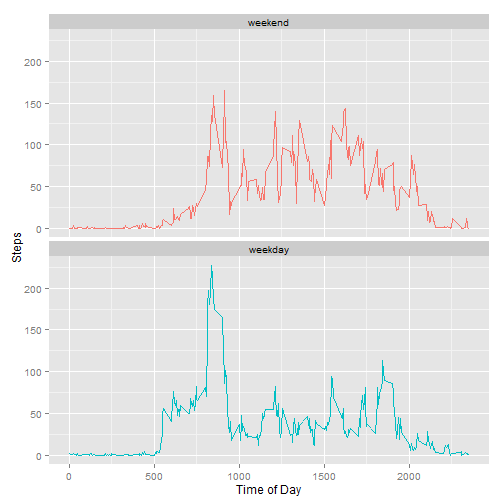
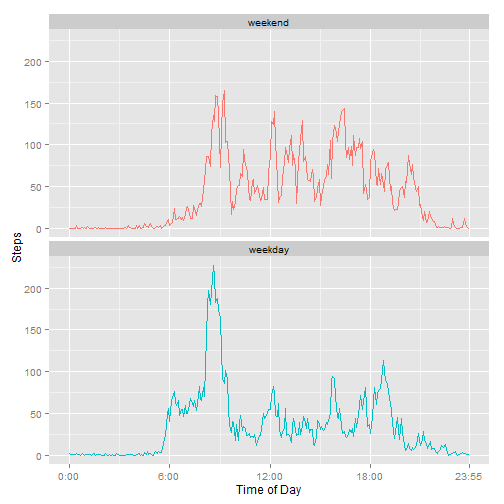
Correct x values to be continuous

diff --git a/PA1_template.html b/PA1_template.html
@@ -236,21 +236,23 @@ activity &lt;- read.csv(&quot;activity.csv&quot;)
 ## 6    NA 2012-10-01       25
 </code></pre>
 
-<p>We create another column for our convenience which combines the date and interval into
-a time value, dttm, and take another look at our data:</p>
+<p>We create a column which combines the date and interval into
+a time value, dttm, and another that converts the interval into a cardinal number, 
+interval_val, and take another look at our data:</p>
 
 <pre><code class="r">activity$interval_str &lt;- sprintf(&quot;%02d:%02d&quot;, floor(activity$interval/100), activity$interval %% 100)
 activity &lt;- mutate(activity, dttm = as.POSIXct(paste(date, interval_str), format=&quot;%Y-%m-%d %H:%M&quot;))
+activity &lt;- mutate(activity, interval_val = 60 * floor(interval/100) + interval %% 100)
 head(activity)
 </code></pre>
 
-<pre><code>##   steps       date interval interval_str                dttm
-## 1    NA 2012-10-01        0        00:00 2012-10-01 00:00:00
-## 2    NA 2012-10-01        5        00:05 2012-10-01 00:05:00
-## 3    NA 2012-10-01       10        00:10 2012-10-01 00:10:00
-## 4    NA 2012-10-01       15        00:15 2012-10-01 00:15:00
-## 5    NA 2012-10-01       20        00:20 2012-10-01 00:20:00
-## 6    NA 2012-10-01       25        00:25 2012-10-01 00:25:00
+<pre><code>##   steps       date interval interval_str                dttm interval_val
+## 1    NA 2012-10-01        0        00:00 2012-10-01 00:00:00            0
+## 2    NA 2012-10-01        5        00:05 2012-10-01 00:05:00            5
+## 3    NA 2012-10-01       10        00:10 2012-10-01 00:10:00           10
+## 4    NA 2012-10-01       15        00:15 2012-10-01 00:15:00           15
+## 5    NA 2012-10-01       20        00:20 2012-10-01 00:20:00           20
+## 6    NA 2012-10-01       25        00:25 2012-10-01 00:25:00           25
 </code></pre>
 
 <h2>What is mean total number of steps each day?</h2>
@@ -317,22 +319,25 @@ into 0.</p>
 
 <pre><code class="r">activity2 &lt;- activity
 activity2$steps[is.na(activity2$steps)] &lt;- 0
-activ_sum_interval &lt;- activity2 %&gt;% group_by(interval) %&gt;% summarize(mean(steps))
+activ_sum_interval &lt;- activity2 %&gt;% group_by(interval_val) %&gt;% summarize(mean(steps))
 names(activ_sum_interval)[2] &lt;- &quot;steps&quot;
-qplot(activ_sum_interval$interval, activ_sum_interval$steps, geom = &#39;line&#39;, col = I(&quot;blue&quot;), main = &quot;Avg Number of Steps (by 5-minute interval)&quot;, xlab = &quot;Time of Day&quot;, ylab = &quot;Avg Number of Steps&quot;)
+
+t &lt;- ggplot(activ_sum_interval, aes(interval_val, steps)) + geom_line(color = &quot;blue&quot;) + xlab(&quot;Time of Day&quot;) + ylab(&quot;Steps&quot;) + scale_x_continuous(breaks = c(0, 360, 720, 1080, 1435), labels = c(&quot;0:00&quot;, &quot;6:00&quot;, &quot;12:00&quot;, &quot;18:00&quot;, &quot;23:55&quot;))
+t
 </code></pre>
 
[2 lines of base64/hex data omitted]
 
 <ol>
 <li>Which 5-minute interval, on average across all the days in the dataset, contains
 the maximum number of steps?</li>
 </ol>
 
-<pre><code class="r">activ_sum_interval$interval[which.max(activ_sum_interval$steps)]
+<pre><code class="r">max_t &lt;- activ_sum_interval$interval_val[which.max(activ_sum_interval$steps)]
+sprintf(&quot;%02d:%02d&quot;, floor(max_t/60), max_t - 60 * floor(max_t/60))
 </code></pre>
 
-<pre><code>## [1] 835
+<pre><code>## [1] &quot;08:35&quot;
 </code></pre>
 
 <h2>Imputing missing values</h2>
@@ -405,14 +410,15 @@ activity2$dayType &lt;- factor((weekdays(activity2$dttm) %in% weekend), levels =
 <p>2) Make a panel plot containing a time series plot of the 5-minute interval and the
 average number of steps taken, averaged across all weekday days or weekend days.</p>
 
-<pre><code class="r">activ_sum_interval &lt;- activity2 %&gt;% group_by(interval, dayType) %&gt;% summarize(mean(steps))
+<pre><code class="r">activity2 &lt;- mutate(activity2, interval_val = 60 * floor(interval/100) + interval %% 100)
+activ_sum_interval &lt;- activity2 %&gt;% group_by(interval_val, dayType) %&gt;% summarize(mean(steps))
 names(activ_sum_interval)[3] &lt;- &quot;steps&quot;
 
-t &lt;- ggplot(activ_sum_interval, aes(interval, steps, color = factor(dayType))) + geom_line() + facet_wrap(~dayType, nrow = 2) + xlab(&quot;Time of Day&quot;) + ylab(&quot;Steps&quot;) + theme(legend.position = &quot;none&quot;)
+t &lt;- ggplot(activ_sum_interval, aes(interval_val, steps, color = factor(dayType))) + geom_line() + facet_wrap(~dayType, nrow = 2) + xlab(&quot;Time of Day&quot;) + ylab(&quot;Steps&quot;) + theme(legend.position = &quot;none&quot;) + scale_x_continuous(breaks = c(0, 360, 720, 1080, 1435), labels = c(&quot;0:00&quot;, &quot;6:00&quot;, &quot;12:00&quot;, &quot;18:00&quot;, &quot;23:55&quot;))
 t
 </code></pre>
 
[2 lines of base64/hex data omitted]
 
 </body>
 

diff --git a/PA1_template.md b/PA1_template.md
@@ -35,23 +35,25 @@ head(activity)
 ## 5    NA 2012-10-01       20
 ## 6    NA 2012-10-01       25
 ```
-We create another column for our convenience which combines the date and interval into
-a time value, dttm, and take another look at our data:
+We create a column which combines the date and interval into
+a time value, dttm, and another that converts the interval into a cardinal number, 
+interval_val, and take another look at our data:
 
 ```r
 activity$interval_str <- sprintf("%02d:%02d", floor(activity$interval/100), activity$interval %% 100)
 activity <- mutate(activity, dttm = as.POSIXct(paste(date, interval_str), format="%Y-%m-%d %H:%M"))
+activity <- mutate(activity, interval_val = 60 * floor(interval/100) + interval %% 100)
 head(activity)
 ```
 
 ```
-##   steps       date interval interval_str                dttm
-## 1    NA 2012-10-01        0        00:00 2012-10-01 00:00:00
-## 2    NA 2012-10-01        5        00:05 2012-10-01 00:05:00
-## 3    NA 2012-10-01       10        00:10 2012-10-01 00:10:00
-## 4    NA 2012-10-01       15        00:15 2012-10-01 00:15:00
-## 5    NA 2012-10-01       20        00:20 2012-10-01 00:20:00
-## 6    NA 2012-10-01       25        00:25 2012-10-01 00:25:00
+##   steps       date interval interval_str                dttm interval_val
+## 1    NA 2012-10-01        0        00:00 2012-10-01 00:00:00            0
+## 2    NA 2012-10-01        5        00:05 2012-10-01 00:05:00            5
+## 3    NA 2012-10-01       10        00:10 2012-10-01 00:10:00           10
+## 4    NA 2012-10-01       15        00:15 2012-10-01 00:15:00           15
+## 5    NA 2012-10-01       20        00:20 2012-10-01 00:20:00           20
+## 6    NA 2012-10-01       25        00:25 2012-10-01 00:25:00           25
 ```
 
 ## What is mean total number of steps each day?
@@ -119,9 +121,11 @@ into 0.
 ```r
 activity2 <- activity
 activity2$steps[is.na(activity2$steps)] <- 0
-activ_sum_interval <- activity2 %>% group_by(interval) %>% summarize(mean(steps))
+activ_sum_interval <- activity2 %>% group_by(interval_val) %>% summarize(mean(steps))
 names(activ_sum_interval)[2] <- "steps"
-qplot(activ_sum_interval$interval, activ_sum_interval$steps, geom = 'line', col = I("blue"), main = "Avg Number of Steps (by 5-minute interval)", xlab = "Time of Day", ylab = "Avg Number of Steps")
+
+t <- ggplot(activ_sum_interval, aes(interval_val, steps)) + geom_line(color = "blue") + xlab("Time of Day") + ylab("Steps") + scale_x_continuous(breaks = c(0, 360, 720, 1080, 1435), labels = c("0:00", "6:00", "12:00", "18:00", "23:55"))
+t
 ```
 
 ![plot of chunk unnamed-chunk-7](figure/unnamed-chunk-7-1.png) 
@@ -131,11 +135,12 @@ the maximum number of steps?
 
 
 ```r
-activ_sum_interval$interval[which.max(activ_sum_interval$steps)]
+max_t <- activ_sum_interval$interval_val[which.max(activ_sum_interval$steps)]
+sprintf("%02d:%02d", floor(max_t/60), max_t - 60 * floor(max_t/60))
 ```
 
 ```
-## [1] 835
+## [1] "08:35"
 ```
 
 ## Imputing missing values
@@ -215,10 +220,11 @@ average number of steps taken, averaged across all weekday days or weekend days.
 
 
 ```r
-activ_sum_interval <- activity2 %>% group_by(interval, dayType) %>% summarize(mean(steps))
+activity2 <- mutate(activity2, interval_val = 60 * floor(interval/100) + interval %% 100)
+activ_sum_interval <- activity2 %>% group_by(interval_val, dayType) %>% summarize(mean(steps))
 names(activ_sum_interval)[3] <- "steps"
 
-t <- ggplot(activ_sum_interval, aes(interval, steps, color = factor(dayType))) + geom_line() + facet_wrap(~dayType, nrow = 2) + xlab("Time of Day") + ylab("Steps") + theme(legend.position = "none")
+t <- ggplot(activ_sum_interval, aes(interval_val, steps, color = factor(dayType))) + geom_line() + facet_wrap(~dayType, nrow = 2) + xlab("Time of Day") + ylab("Steps") + theme(legend.position = "none") + scale_x_continuous(breaks = c(0, 360, 720, 1080, 1435), labels = c("0:00", "6:00", "12:00", "18:00", "23:55"))
 t
 ```
 
